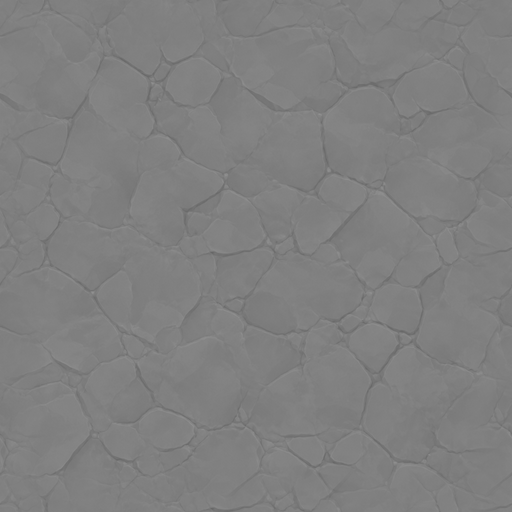
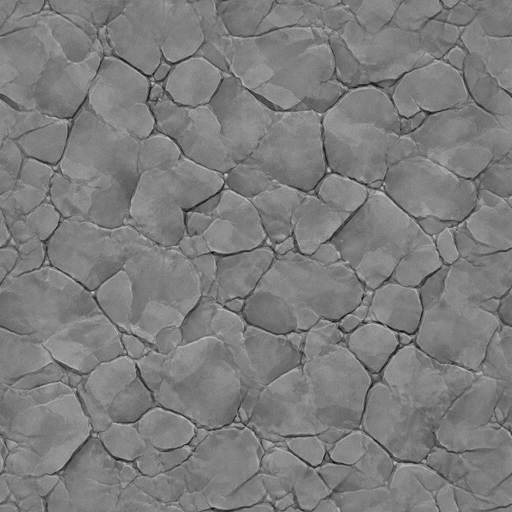
v280: Der graue Teppich war Fels-GELAENDE - Karte im Referenzstil
Nutzerbefund "hoehen sehen komisch aus": ein riesiger blasser Keil mit
schnurgerader Kante. Die Ursachenkette, jede Stufe gemessen:

1. Ebenenprobe (nur GL / nur 2D): der Keil sitzt in der GPU-Ebene, ist
   also keine Ueberlagerung.
2. Gewichtsdiagnose (uDebug 1): die Flaeche ist REINER FELS - die
   Materialgrenze selbst war sauber ausgefranst.
3. Rot-Test (Felsfarbe testweise #FF0000): die Flaeche blieb grau, das
   GL-Programm lief aber nachweislich (prog/verf/bereit alle true).
4. Bergwiesen-Diagnose (uDebug 3): Neigungs- UND Hoehenfenster waren
   dort offen - es HAETTE Bergwiese sein muessen.

Der Widerspruch loeste sich in der Kartenerzeugung: `else if(sp > 0)`
machte JEDEN Knoten im Massiv-Fussabdruck zu Fels, auch den flachen
Saum. Das Massiv war also viel groesser als der sichtbare Berg, und
seine Flanke lag als graue Flaeche im Gras. Jetzt `sp > 0.45`: Fels nur
auf der oberen Koerperhaelfte, der Fuss ist Wiese - die HOEHE bleibt,
der Huegel steht weiter, aber er ist gruen und traegt Baeume. Genau der
Aufbau des Referenzbilds.

Dazu die zweite Haelfte des Befunds - der Fels sah auch dort grau aus,
wo er hingehoert:
- Kachelmass 512 -> 210 Weltpixel: bei 512 fuellte EINE Kachel im
  Spielzoom fast den Bildschirm, der Fels hatte gar keine Zeichnung
- Kachelkontrast wiederhergestellt (Std 3,3 -> 16,0; die Wiese liegt
  bei 14,7). Die Normierung beim Einbau der Lieferung hatte die
  Risszeichnung plattgedrueckt.
[…]

diff --git a/js/terrain-gl.js b/js/terrain-gl.js
@@ -327,7 +327,11 @@ void main(){
   // trat das Zellnetz der Risskachel als Muster hervor - dieselbe Sorte
   // Beanstandung wie die Schlangenhaut in v268; die Spez nennt fuer
   // Texturen ohnehin nur 15-20 % Deckkraft)
-  vec3 fels = uG[5] * mix(vec3(1.0), hol(tFels, uSk2.y) * 4.8, 0.16) * (0.97 + 0.05*korn);
+  // Kachelanteil 0,16 -> 0,40: mit der flachen Kachel (Std 3,3) war 16 %
+  // gleichbedeutend mit "keine Zeichnung". Die Kachel traegt jetzt
+  // wieder Kontrast (Std 16, wie die Wiese), damit darf sie auch
+  // deutlicher durchkommen - sonst bleibt der Fels eine leere Flaeche.
+  vec3 fels = uG[5] * mix(vec3(1.0), hol(tFels, uSk2.y) * 4.8, 0.40) * (0.97 + 0.05*korn);
   // ---- BERGWIESE: das Gras klettert den Berg hinauf ----
   // Referenzbild (Diorama-Huegel): der Berg ist unten GRUEN, der Fels
   // bricht erst oben und an Steilflanken durch. Bisher war das ganze
@@ -368,7 +372,15 @@ void main(){
   // Hoehenunterschied. Deckung voll (1,0 statt 0,9), sonst schimmert der
   // Fels als grauer Schleier durch die Wiese.
   vec3 berggras = mix(mWiese, mWueste, 0.12);
-  fels = mix(fels, berggras, (1.0 - gipfel) * sanft);
+  // ENTSCHIEDENE GRENZE statt Mischbrei: (1-gipfel)*sanft lieferte ueber
+  // weite Flaechen Werte um 0,5 - und ein halb-halb aus grauem Fels und
+  // gruenem Gras ist ein texturloser grau-gruener Teppich. Genau der
+  // stand als heller Keil im Nutzerfoto (Ebenenprobe t47: der Keil sitzt
+  // in der GL-Ebene, nicht in einer Ueberlagerung). Die Referenz kennt
+  // nur Gras ODER Fels, mit Bloecken darauf. Die Schwelle macht daraus
+  // eine Kante, die das Ortsrauschen ausfranst.
+  float gras = smoothstep(0.34, 0.62, (1.0 - gipfel) * sanft + (rausch - 0.5)*0.18);
+  fels = mix(fels, berggras, gras);
   vec3 massiv = mix(fels, mSchnee, sMix);
   vec3 alb =
       mWiese * w1.x + mWueste * w1.y + mSchnee * w1.z + mMoor * w1.w
@@ -572,6 +584,9 @@ void main(){
     col = vec3(w2.y, q1.x, sAnteil) / max(0.001, max(w2.y, max(q1.x, sAnteil)));
   } else if(uDebug > 1.5 && uDebug < 2.5){
     col = vec3(key * 0.8);
+  } else if(uDebug > 3.5){
+    // Diagnose 4: R = Firnanteil sMix, G = Massivgruppe mas, B = Grasmix
+    col = vec3(sMix, mas, gras);
   } else if(uDebug > 2.5){
     // Diagnose Bergwiese: R = Hoehe/10, G = sanft (Neigungsfenster),
     // B = 1-gipfel (Hoehenfenster). Gras entsteht aus G*B.

diff --git a/js/render.js b/js/render.js
@@ -474,7 +474,14 @@ export class Renderer {
       // felsFarbe. Fehlt die Kachel, liefert die 1x1-Grau-Ersatztextur
       // exakt die Themenfarbe. Die grossen Plattenkacheln (mat_fels_*)
       // bleiben im Bestand, liegen aber nicht mehr auf dem Massiv.
-      fels: wahl('mat_fels_ruhig_alb', null, 512),
+      // KACHELMASS 512 -> 210: bei 512 Weltpixeln fuellte EINE Felskachel
+      // im Spielzoom fast den Bildschirm - der Fels hatte damit gar keine
+      // sichtbare Zeichnung und las sich als grauer Nebel (Nutzerfoto
+      // "hoehen sehen komisch aus"; die Gewichtsdiagnose t48 hat die
+      // Flaeche als reinen Fels ueberfuehrt, das Problem war allein die
+      // Darstellung). Gras laeuft auf 225, Sand auf 256 - der Fels passt
+      // sich ein.
+      fels: wahl('mat_fels_ruhig_alb', null, 210),
       felsFarbe: (()=>{
         const fc=parseInt((cols[TER.MOUNT]||'#8a7f6a').slice(1),16);
         return [((fc>>16)&255)/255, ((fc>>8)&255)/255, (fc&255)/255];

diff --git a/js/map.js b/js/map.js
@@ -509,7 +509,14 @@ export function genWorld(opts){
       const i=map.idx(X,Y);
       const e=raw[i], sp=mv[i];
       if(e < SEA){ map.terr[i]=TER.WATER; }
-      else if(sp > 0){
+      // FELS ERST AB DER OBEREN HAELFTE DES KOERPERS (Referenz-Diorama):
+      // frueher wurde JEDER Knoten im Massiv-Fussabdruck zu Fels (sp > 0),
+      // auch der flache Saum - daher der riesige graue Teppich, den die
+      // Nutzerfotos zeigen. Im Referenzbild ist der Huegel GRUENES LAND,
+      // aus dem oben Fels bricht. Die HOEHE bleibt unveraendert (der
+      // Koerper steht weiter), nur die Oberflaeche unterhalb 0,45 ist
+      // Wiese - damit wachsen dort auch Baeume, wie in der Referenz.
+      else if(sp > 0.45){
         // Kern vereist, Flanke blanker Fels
         // SCHNEEGRENZE: fuer das Gebirge von 0,62 auf 0,88 - bei 0,62 lag
         // Firn auf ueber einem Drittel des Massivs (gemessen 2629 Knoten),

diff --git a/sw.js b/sw.js
@@ -6,7 +6,7 @@
 // Server längst die neue auslieferte. Beim Installieren wird zusätzlich am
 // HTTP-Cache vorbei geladen (cache:'reload'), sonst holt sich der neue
 // Serviceworker über die noch gültigen Cache-Header wieder die alten Bytes.
-const BUILD = 'v279';
+const BUILD = 'v280';
 const CACHE = 'neuland-' + BUILD;
 const FILES = [
   './', './index.html', './style.css', './manifest.webmanifest',
